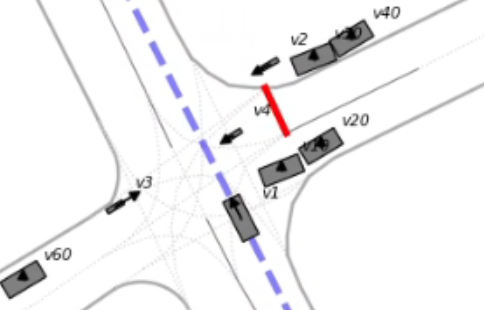
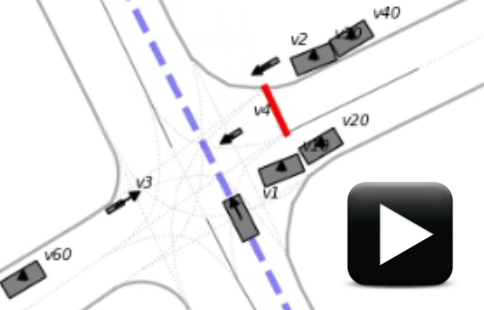
merge video play button into image, fix typos

Changed region(s): [[0.7128, 0.5806, 0.9607, 0.9581]]

diff --git a/README.md b/README.md
@@ -5,7 +5,7 @@ Copyright © 2026, University of Waterloo. All rights reserved.
 2026 Euro NCAP crash avoidance scenarios modeled using [GeoScenario 2](https://geoscenario2.readthedocs.io/).
 The scenarios can be executed using [GeoScenario Server](https://uwaterloo.ca/waterloo-intelligent-systems-engineering-lab/projects/geoscenario-server/) traffic simulator.
 
-For example, in the screenshot below, the vehicle under test (VUT) `v1` is driving forward across the intersection while an occluding vehicles are blocking the view of three bicycles (`v2`, `v3`, and `v4`) entering the intersection. The bicycles adjust their speed to force a collision with the VUT.
+For example, in the screenshot below, the vehicle under test (VUT) `v1` is driving forward across the intersection while occluding vehicles are blocking the view of three bicycles (`v2`, `v3`, and `v4`) entering the intersection. The bicycles adjust their speeds to force a collision with the VUT.
 
 Click on the image to watch the video of the scenario execution.
 
